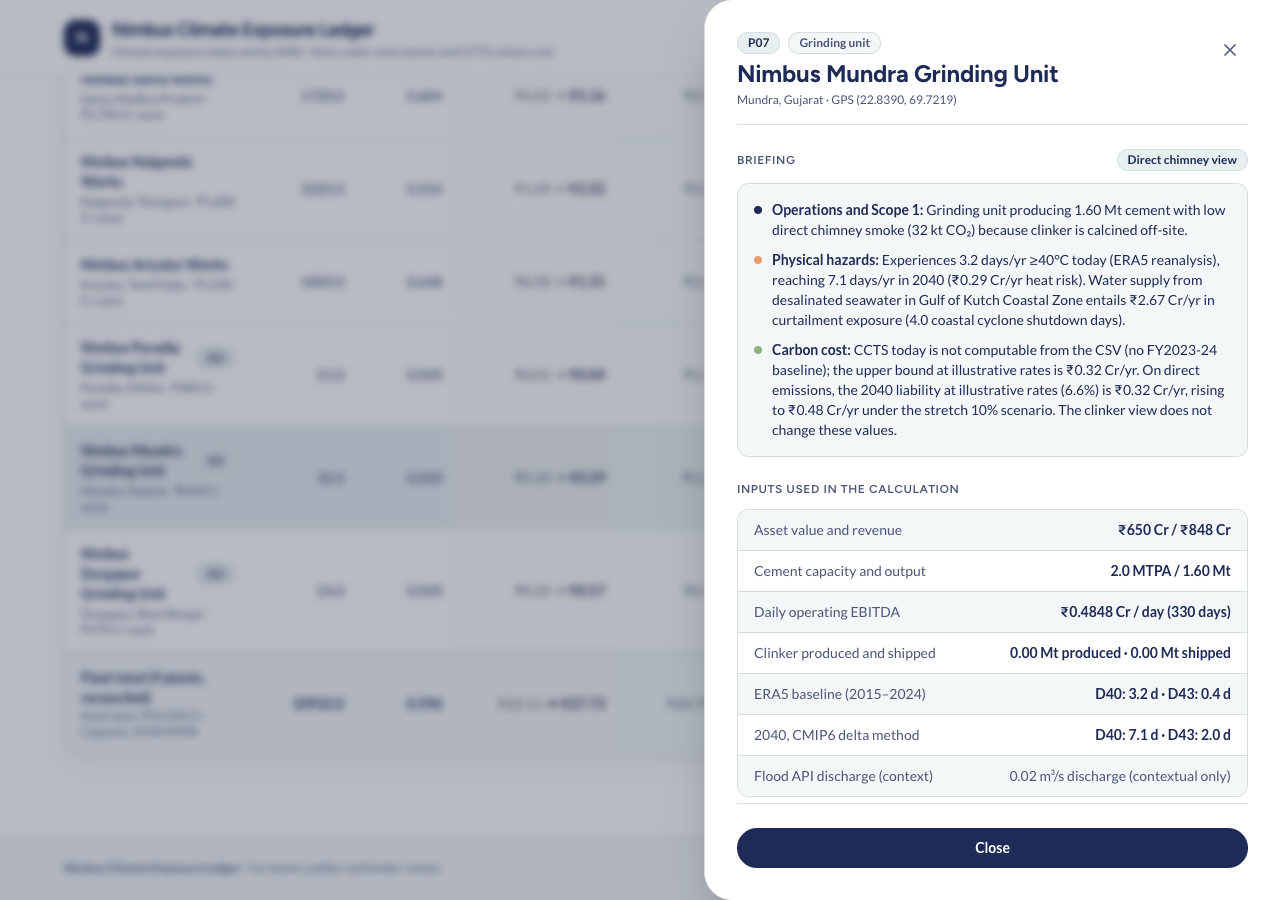
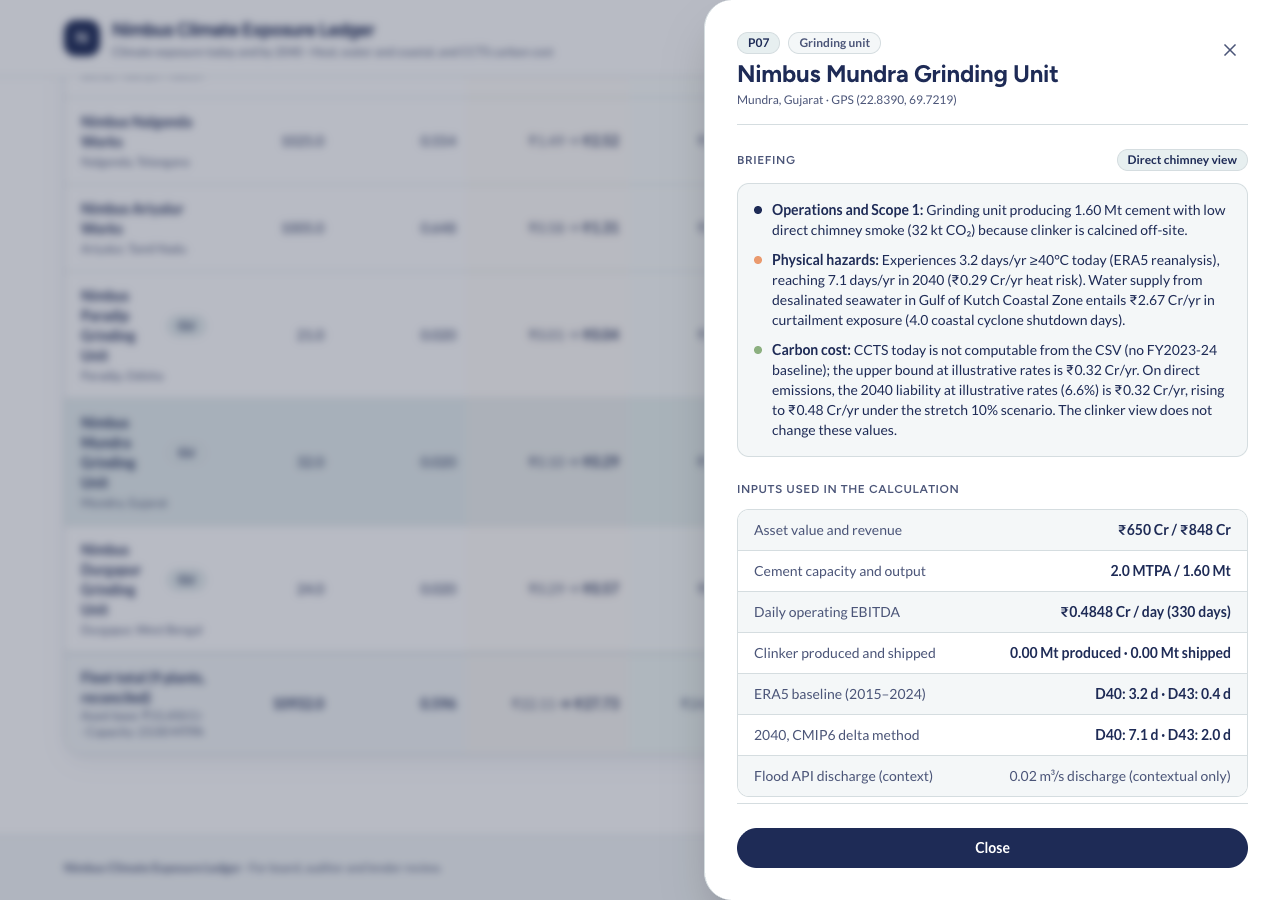
ui: fix ledger header shift when toggling clinker view; left-align plant header; drop asset from row subtitle; refresh screenshots

diff --git a/src/App.tsx b/src/App.tsx
@@ -653,9 +653,9 @@ export default function App() {
               <thead className="bg-oren-surface text-xs font-semibold text-oren-muted uppercase tracking-wider border-b border-oren-line">
                 <tr>
                   {([
-                    { key: 'plant', label: 'Plant and location', sub: '', subCls: '', cls: 'px-4 min-w-[170px] text-left sticky left-0 z-10 bg-oren-surface shadow-[1px_0_0_#D5DDE0]' },
-                    { key: 'scope1', label: 'Scope 1 (kt)', sub: clinkerAdjusted ? 'clinker-adjusted' : 'direct chimney', subCls: 'lowercase text-oren-muted', cls: 'px-2.5' },
-                    { key: 'intensity', label: 'Intensity', sub: `tCO₂/t · ${clinkerAdjusted ? 'adjusted' : 'direct'}`, subCls: 'normal-case text-oren-muted', cls: 'px-2.5' },
+                    { key: 'plant', label: 'Plant and location', sub: '', subCls: '', cls: 'px-4 min-w-[153px] text-left sticky left-0 z-10 bg-oren-surface shadow-[1px_0_0_#D5DDE0]' },
+                    { key: 'scope1', label: 'Scope 1 (kt)', sub: clinkerAdjusted ? 'clinker-adjusted' : 'direct chimney', subCls: 'lowercase text-oren-muted', cls: 'px-2.5 min-w-[112px]' },
+                    { key: 'intensity', label: 'Intensity', sub: `tCO₂/t · ${clinkerAdjusted ? 'adjusted' : 'direct'}`, subCls: 'normal-case text-oren-muted', cls: 'px-2.5 min-w-[132px]' },
                     { key: 'heat2040', label: 'Heat', sub: 'today → 2040 · API-based', subCls: 'normal-case text-oren-teal', cls: 'px-2.5 bg-orange-50/40' },
                     { key: 'water2040', label: 'Water and coastal', sub: 'today → 2040 · assumption', subCls: 'normal-case text-oren-amber', cls: 'px-2.5 bg-green-50/40' },
                     { key: 'cctsNotified', label: 'CCTS illustrative', sub: '2.7% / 6.6%', subCls: 'lowercase text-oren-amber', cls: 'px-2.5 bg-slate-100' },
@@ -674,7 +674,7 @@ export default function App() {
                         <button
                           type="button"
                           onClick={() => toggleSort(col.key)}
-                          className={`inline-flex flex-col ${col.key === 'plant' ? 'items-start' : 'items-end'} uppercase tracking-wide font-[inherit] text-right focus-visible:outline-none focus-visible:ring-2 focus-visible:ring-oren-teal rounded`}
+                          className={`inline-flex flex-col ${col.key === 'plant' ? 'items-start' : 'items-end'} uppercase tracking-wide font-[inherit] ${col.key === 'plant' ? 'text-left' : 'text-right'} focus-visible:outline-none focus-visible:ring-2 focus-visible:ring-oren-teal rounded`}
                         >
                           <span className="inline-flex items-center gap-1 whitespace-normal">
                             {col.label}
@@ -712,7 +712,7 @@ export default function App() {
                           )}
                         </div>
                         <div className="text-xs text-oren-muted mt-0.5">
-                          {plant.town}, {plant.state} · ₹{plant.asset_value_inr_cr.toLocaleString()} Cr asset
+                          {plant.town}, {plant.state}
                         </div>
                       </td>
 
